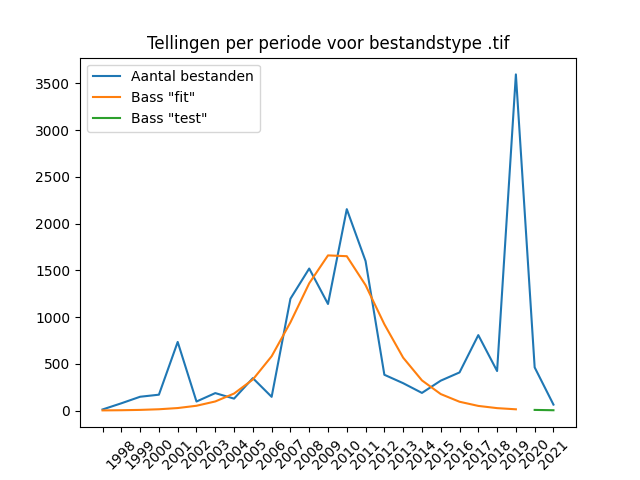
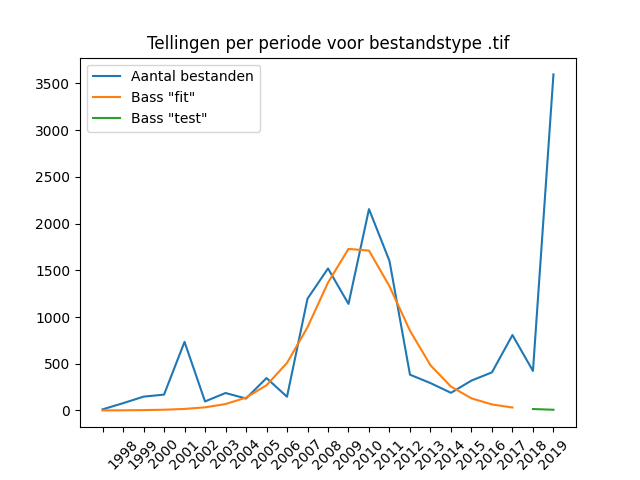
update DANS file counts by excluding 2020-2022

Changed region(s): [[0.1875, 0.1562, 0.875, 0.875], [0.1562, 0.9062, 0.9062, 1.0], [0.8438, 0.7812, 0.875, 0.875]]

diff --git a/analysis/dans_analysis.py b/analysis/dans_analysis.py
@@ -41,9 +41,12 @@ def main(config: Config) -> int:
     all_filetypes_yearly_counts = all_filetype_counts(yearly_stats)
     all_counts = [period_count['count'] for period_count in all_filetypes_yearly_counts['all']]
     all_periods = [period_count['period'] for period_count in all_filetypes_yearly_counts['all']]
+
+    # Filter periods to specified range
     first_valid_idx = all_periods.index(str(dans_cfg['min_year']))
-    all_counts = all_counts[first_valid_idx:]
-    all_periods = all_periods[first_valid_idx:]
+    last_valid_idx = all_periods.index(str(dans_cfg['max_year']))
+    all_counts = all_counts[first_valid_idx:last_valid_idx]
+    all_periods = all_periods[first_valid_idx:last_valid_idx]
 
     # Generate plot for all file types combined
     plt.plot(list(range(len(all_counts))), all_counts)
@@ -105,7 +108,7 @@ def filter_stats(yearly_stats: SortedFileCount, dans_cfg: dict) -> List[str]:
         count_idx = 0
         while count_idx < len(yearly_counts):
             year = int(yearly_counts[count_idx]['period'][:5])
-            if year < dans_cfg['min_year']:
+            if year < dans_cfg['min_year'] or year > dans_cfg['max_year']:
                 yearly_counts.pop(count_idx)
             else:
                 count_idx += 1

diff --git a/analysis/shared_parsers.py b/analysis/shared_parsers.py
@@ -197,7 +197,7 @@ def to_sorted_yearly(filetype_monthly_counts: PeriodicFiletypeCount) -> SortedFi
                 'period': str(int(last_period) + 1), 'count': 0
             })
 
-        # Chop off the current quarter: counts may still be incomplete
+        # Chop off the last count: counts may still be incomplete for the last period
         year_counts[file_type].pop(-1)
 
     return year_counts
